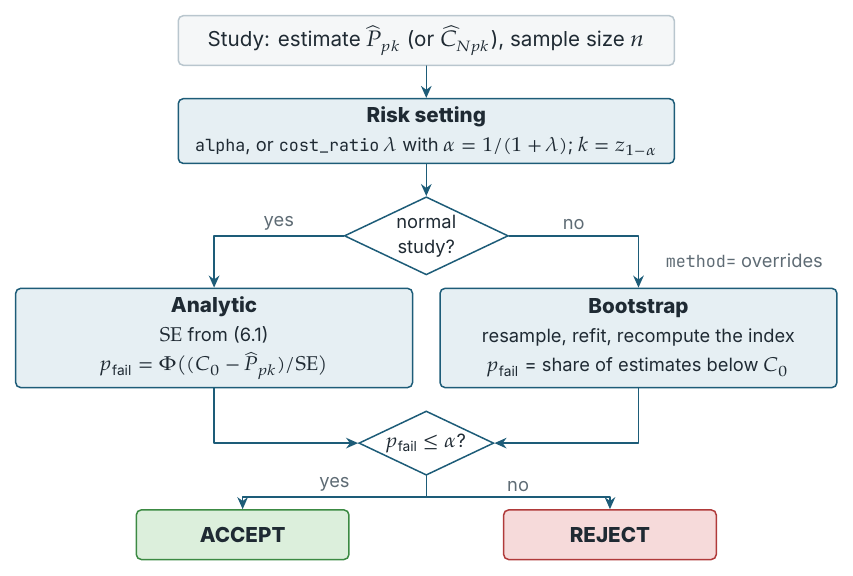
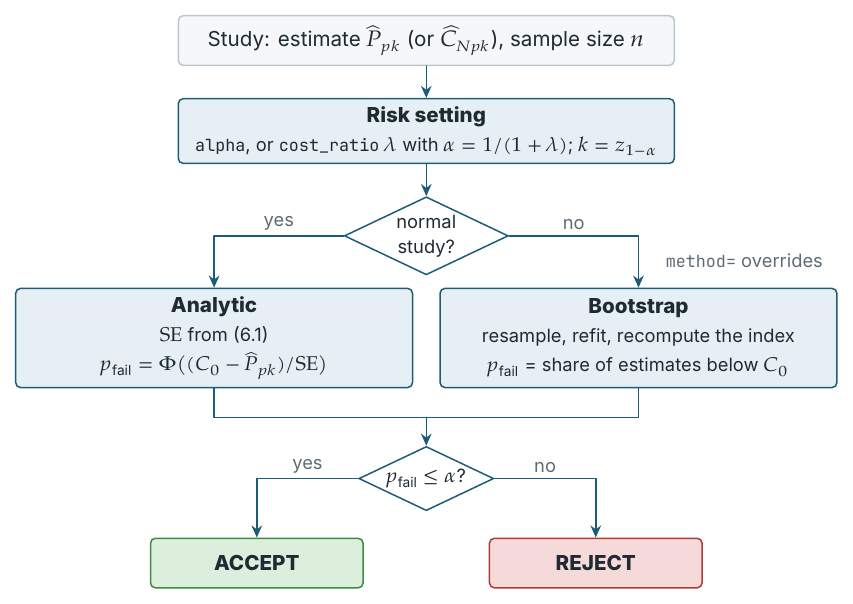
Manual and README: arrows in figures 6.2 and 9.1, monitoring zones aligned

Changed region(s): [[0.0, 0.0, 1.0, 1.0]]

diff --git a/docs/manual_tex/uccap_manual.tex b/docs/manual_tex/uccap_manual.tex
@@ -1371,17 +1371,19 @@ still rejected \cite[Sec.~7]{jy-risk}. The failure probability and the cost-base
   \node[ask, below=of set] (nrm) {normal\\study?};
   \node[fbox, minimum width=56mm, minimum height=14mm, below left=4.5mm and -4mm of nrm] (an) {\textbf{Analytic}\\{\scriptsize $\mathrm{SE}$ from \eqref{eq:se}}\\{\scriptsize $p_{\text{fail}} = \Phi\bigl((C_0 - \Ppkhat)/\mathrm{SE}\bigr)$}};
   \node[fbox, minimum width=56mm, minimum height=14mm, below right=4.5mm and -4mm of nrm] (bs) {\textbf{Bootstrap}\\{\scriptsize resample, refit, recompute the index}\\{\scriptsize $p_{\text{fail}}$ = share of estimates below $C_0$}};
-  \node[ask, below=19mm of nrm] (ok) {$p_{\text{fail}} \le \alpha$?};
-  \node[fbox, draw=goodline, fill=good, minimum width=30mm, below left=7mm and 6mm of ok] (acc) {\textbf{ACCEPT}};
-  \node[fbox, draw=badline, fill=bad, minimum width=30mm, below right=7mm and 6mm of ok] (rej) {\textbf{REJECT}};
+  \node[ask, below=24mm of nrm] (ok) {$p_{\text{fail}} \le \alpha$?};
+  \node[fbox, draw=goodline, fill=good, minimum width=30mm, below left=6mm and 4mm of ok] (acc) {\textbf{ACCEPT}};
+  \node[fbox, draw=badline, fill=bad, minimum width=30mm, below right=6mm and 4mm of ok] (rej) {\textbf{REJECT}};
   \draw[arr] (in) -- (set);
   \draw[arr] (set) -- (nrm);
   \draw[arr] (nrm.west) -| node[lbl, above, pos=0.25] {yes} (an.north);
   \draw[arr] (nrm.east) -| node[lbl, above, pos=0.25] {no} (bs.north);
-  \draw[arr] (an.south) |- (ok.west);
-  \draw[arr] (bs.south) |- (ok.east);
-  \draw[arr] (ok.south) -- ++(0,-3mm) -| node[lbl, above, pos=0.25] {yes} (acc.north);
-  \draw[arr] (ok.south) -- ++(0,-3mm) -| node[lbl, above, pos=0.25] {no} (rej.north);
+  \coordinate (mg) at ($(ok.north)+(0,4mm)$);
+  \draw[arr, -] (an.south) |- (mg);
+  \draw[arr, -] (bs.south) |- (mg);
+  \draw[arr] (mg) -- (ok.north);
+  \draw[arr] (ok.west) -| node[lbl, above, pos=0.25] {yes} (acc.north);
+  \draw[arr] (ok.east) -| node[lbl, above, pos=0.25] {no} (rej.north);
   \node[note, anchor=west] at ($(nrm.east -| bs.north)+(2.5mm,-3.5mm)$) {\code{method=} overrides};
 \end{tikzpicture}
 \caption{The risk-calibrated decision of \code{risk\_decision}. For normal data the rule is equivalent to
@@ -2237,8 +2239,8 @@ not vanish: with $\lambda_f = 0.95$ the half-life of past evidence is about 13.5
   \node[fbox, minimum width=68mm, below=of s2] (s3) {\textbf{3\enspace Posterior acceptability}\\{\scriptsize $M$ draws of $(\mu_t, \sigma_t)$; $\pi_t$ = share with $q(\theta_t) \ge q_0$}};
   \node[ask, below=of s3] (a1) {$\pi_t \ge \gamma_A$?};
   \node[ask, below=of a1] (a2) {$\pi_t \le \gamma_R$\\and $t \ge t_{\min}$?};
-  \node[fbox, draw=goodline, fill=good, minimum width=28mm, anchor=west] (cont) at ($(a1.east)+(12mm,0)$) {\textbf{continue}};
-  \node[fbox, draw=badline, fill=bad, minimum width=28mm, anchor=west] (int) at ($(a2.east)+(12mm,0)$) {\textbf{intervene}, $\tau = t$};
+  \node[fbox, draw=goodline, fill=good, minimum width=32mm, anchor=west] (cont) at ($(a2.east |- a1.east)+(10mm,0)$) {\textbf{continue}};
+  \node[fbox, draw=badline, fill=bad, minimum width=32mm, anchor=west] (int) at ($(a2.east)+(10mm,0)$) {\textbf{intervene}, $\tau = t$};
   \node[fbox, draw=warnline, fill=warn, minimum width=28mm, below=of a2] (mon) {\textbf{monitor}};
   \draw[arr] (in) -- (s1);
   \draw[arr] (s1) -- (s2);
@@ -2248,8 +2250,8 @@ not vanish: with $\lambda_f = 0.95$ the half-life of past evidence is about 13.5
   \draw[arr] (a1) -- node[lbl, left] {no} (a2);
   \draw[arr] (a2.east) -- node[lbl, above] {yes} (int.west);
   \draw[arr] (a2) -- node[lbl, left] {no} (mon);
-  \draw[arr] (cont.north) |- node[lbl, right, align=left, pos=0.3] {next\\subgroup} (s1.east);
-  \draw[arr] (mon.west) -- ++(-24mm,0) |- node[lbl, left, align=right, pos=0.25] {next\\subgroup} (s1.west);
+  \draw[arr] (cont.east) -- ++(6mm,0) coordinate (rl) |- node[lbl, right, align=left, pos=0.25] {next\\subgroup} (s1.east);
+  \draw[arr] let \p1 = (rl), \p2 = (mon.west) in (\p2) -- (-\x1,\y2) |- node[lbl, left, align=right, pos=0.25] {next\\subgroup} (s1.west);
 \end{tikzpicture}
 \caption{One monitoring update of \code{monitor\_study}, repeated for every completed subgroup (Algorithm~1 of the
 monitoring article \cite{jy-monitor}). The zones follow \eqref{eq:pi} and Section~\ref{sec:sboam}.}\label{fig:monflow}
